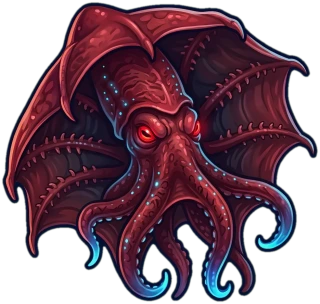
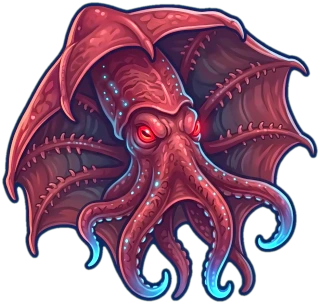
glowmaw: bespoke per-symbol win motion + masked shine sweep, brighter H2, larger H4

diff --git a/apps/glowmaw/src/scene/SymbolView.ts b/apps/glowmaw/src/scene/SymbolView.ts
@@ -19,6 +19,10 @@ export class SymbolView {
 	private art = new PIXI.Sprite();
 	private flash = new PIXI.Sprite();
 	private value?: PIXI.Text;
+	private shine = new PIXI.Sprite(fx.shine());
+	private shineMask = new PIXI.Sprite();
+	/** ms since the win highlight started, -1 when not winning (drives the per-symbol win motion) */
+	private winT = -1;
 	raw: RawSymbol = { name: 'L5' };
 	private phase = Math.random() * Math.PI * 2;
 	private dimmed = 0; // 0..1 animated
@@ -38,7 +42,15 @@ export class SymbolView {
 		this.flash.anchor.set(0.5);
 		this.flash.blendMode = 'add';
 		this.flash.alpha = 0;
-		this.body.addChild(this.glow, this.art, this.flash);
+		this.shine.anchor.set(0.5);
+		this.shine.blendMode = 'add';
+		this.shine.rotation = 0.42;
+		this.shine.width = C * 0.32;
+		this.shine.height = C * 1.7;
+		this.shine.visible = false;
+		this.shineMask.anchor.set(0.5);
+		this.shine.mask = this.shineMask;
+		this.body.addChild(this.glow, this.art, this.flash, this.shineMask, this.shine);
 		this.root.addChild(this.body);
 		this.set(raw);
 	}
@@ -51,6 +63,7 @@ export class SymbolView {
 		this.raw = raw;
 		this.taken = false;
 		this.highlight = 0;
+		this.winT = -1;
 		this.pop = 1;
 		this.root.alpha = 1;
 		const style = SYMBOL_STYLE[raw.name] ?? SYMBOL_STYLE.L5;
@@ -64,11 +77,13 @@ export class SymbolView {
 		const t = tex(key, raw.name === 'M' ? 'M' : raw.name);
 		this.art.texture = t;
 		this.flash.texture = t;
+		this.shineMask.texture = t;
 		const size = C * style.scale;
 		const s = size / Math.max(t.width, t.height);
 		this.baseScale = s;
 		this.art.scale.set(s);
 		this.flash.scale.set(s);
+		this.shineMask.scale.set(s);
 		this.glow.tint = tint;
 		this.glow.scale.set((C * 1.25) / 256);
 		this.glow.alpha = raw.name === 'S' || raw.name === 'M' ? 0.55 : 0.18;
@@ -104,10 +119,29 @@ export class SymbolView {
 		} else {
 			this.glow.alpha = 0.14 + this.highlight * 0.75;
 		}
+		let wx = 0, wy = 0, wsx = 1, wsy = 1;
+		if (this.winT >= 0) {
+			this.winT += dt * anim.speed;
+			const m = winMotion(this.raw.name, this.winT);
+			const a = Math.min(1, this.winT / 220) * (anim.reducedMotion ? 0.35 : 1);
+			wx = m.x * a;
+			wy = m.y * a;
+			rot += m.rot * a;
+			wsx = 1 + (m.sx - 1) * a;
+			wsy = 1 + (m.sy - 1) * a;
+			// light band sweeping across the art, every 1.1 s
+			const k = (this.winT % 1100) / 480;
+			this.shine.visible = k < 1;
+			if (k < 1) {
+				this.shine.x = (-0.75 + 1.5 * k) * C;
+				this.shine.alpha = 0.85 * Math.sin(k * Math.PI);
+			}
+		} else this.shine.visible = false;
 		const sc = idleS * this.pop;
 		const st = 1 + this.stretch;
-		this.body.scale.set(sc * this.squashX / Math.sqrt(st), sc * this.squashY * st);
+		this.body.scale.set((sc * this.squashX * wsx) / Math.sqrt(st), sc * this.squashY * st * wsy);
 		this.body.rotation = rot;
+		this.body.position.set(wx, wy);
 		this.glow.scale.set(((C * 1.25) / 256) * (1 + this.highlight * 0.35));
 		this.flash.alpha = this.highlight * (0.35 + Math.sin(this.phase * 9) * 0.15);
 		const k = 1 - this.dimmed * 0.62;
@@ -132,6 +166,7 @@ export class SymbolView {
 	/** Win highlight: pop + glow, holds until clearHighlight. */
 	async win() {
 		this.setDim(false);
+		if (this.winT < 0) this.winT = 0;
 		await anim.tween({ duration: 380, ease: ease.outBack }, (t) => {
 			this.highlight = t;
 			this.pop = 1 + 0.16 * Math.sin(t * Math.PI) + 0.06 * t;
@@ -158,6 +193,7 @@ export class SymbolView {
 
 	clearHighlight() {
 		this.highlight = 0;
+		this.winT = -1;
 		this.pop = 1;
 	}
 
@@ -191,5 +227,91 @@ export class SymbolView {
 		this.root.destroy({ children: true });
 	}
 }
+
+const TAU = Math.PI * 2;
+/** pulse 0..1..0 occupying the first `width` fraction of each period */
+const beat = (t: number, period: number, width = 0.35) => {
+	const k = (t % period) / period;
+	return k < width ? Math.sin((k / width) * Math.PI) : 0;
+};
+
+/**
+ * Bespoke win motion per symbol, in cell units (C = 100): each creature moves the way
+ * it would in the water. Returned values are offsets/multipliers applied on top of
+ * the pop/squash/idle transforms.
+ */
+export const winMotion = (name: string, t: number) => {
+	const p = (t / 1000) * TAU;
+	const m = { x: 0, y: 0, rot: 0, sx: 1, sy: 1 };
+	switch (name) {
+		case 'H1': {
+			// nautilus: slow roll of the shell + chamber glow throb
+			m.rot = Math.sin(p * 0.8) * 0.24;
+			m.sx = m.sy = 1 + Math.sin(p * 1.6) * 0.05;
+			m.y = Math.sin(p * 0.8 + 1.2) * -4;
+			break;
+		}
+		case 'H2': {
+			// vampire squid: cloak flares (wide + flat) then jets upward
+			const b = beat(t, 900, 0.4);
+			m.sx = 1 + 0.16 * b;
+			m.sy = 1 - 0.12 * b;
+			const k = (t % 900) / 900;
+			m.y = -10 * Math.sin(Math.min(1, k / 0.75) * Math.PI) ;
+			break;
+		}
+		case 'H3': {
+			// jellyfish: bell contraction pushes it up, then it drifts back down
+			const b = beat(t, 1000, 0.3);
+			m.sy = 1 - 0.14 * b;
+			m.sx = 1 + 0.1 * b;
+			const k = (t % 1000) / 1000;
+			m.y = -12 * Math.sin(Math.pow(k, 0.6) * Math.PI);
+			break;
+		}
+		case 'H4': {
+			// leafy sea dragon: swimming sway
+			m.rot = Math.sin(p * 1.1) * 0.15;
+			m.x = Math.sin(p * 0.55) * 6;
+			m.y = Math.sin(p * 1.1 + 1) * 4;
+			m.sx = 1 + Math.sin(p * 2.2) * 0.03;
+			break;
+		}
+		case 'L1': {
+			// urchin: spiky shiver
+			m.rot = Math.sin(p * 1.4) * 0.3 + Math.sin(p * 9) * 0.04;
+			m.sx = m.sy = 1 + Math.abs(Math.sin(p * 2.8)) * 0.07;
+			break;
+		}
+		case 'L2': {
+			// brittle star: arms twirl
+			m.rot = Math.sin(p * 0.7) * 0.55;
+			m.sx = m.sy = 1 + Math.sin(p * 1.4) * 0.04;
+			break;
+		}
+		case 'L3': {
+			// scallop: double clap
+			const b = beat(t, 900, 0.18) + beat(t + 200, 900, 0.18) * 0.7;
+			m.sy = 1 - 0.18 * b;
+			m.sx = 1 + 0.05 * b;
+			m.y = -6 * b;
+			break;
+		}
+		case 'L4': {
+			// vent crystal: heat shimmer
+			m.sx = 1 + Math.sin(p * 3.2) * 0.035;
+			m.sy = 1 + Math.sin(p * 3.2 + 1.6) * 0.05;
+			m.rot = Math.sin(p * 6) * 0.03;
+			break;
+		}
+		case 'L5': {
+			// sea glass: turns to catch the light (fake 3D)
+			m.sx = 0.82 + 0.18 * Math.abs(Math.cos(p * 0.7));
+			m.rot = Math.sin(p * 0.7) * 0.18;
+			break;
+		}
+	}
+	return m;
+};
 
 export { COLORS };

diff --git a/apps/glowmaw/src/scene/textures.ts b/apps/glowmaw/src/scene/textures.ts
@@ -71,6 +71,18 @@ export const fx = {
 			c.ellipse(16, 64, 7, 64, 0, 0, Math.PI * 2);
 			c.fill();
 		}),
+	/** Soft vertical light band, rotated and swept across symbol art (masked) on wins. */
+	shine: () =>
+		canvasTex('fx_shine', 64, 256, (c) => {
+			const g = c.createLinearGradient(0, 0, 64, 0);
+			g.addColorStop(0, 'rgba(255,255,255,0)');
+			g.addColorStop(0.42, 'rgba(255,255,255,0.55)');
+			g.addColorStop(0.5, 'rgba(255,255,255,1)');
+			g.addColorStop(0.58, 'rgba(255,255,255,0.55)');
+			g.addColorStop(1, 'rgba(255,255,255,0)');
+			c.fillStyle = g;
+			c.fillRect(0, 0, 64, 256);
+		}),
 	ring: () =>
 		canvasTex('fx_ring', 256, 256, (c) => {
 			const g = c.createRadialGradient(128, 128, 80, 128, 128, 128);

diff --git a/apps/glowmaw/src/scene/theme.ts b/apps/glowmaw/src/scene/theme.ts
@@ -22,7 +22,7 @@ export const SYMBOL_STYLE: Record<string, { tint: number; scale: number }> = {
 	H1: { tint: 0xffb84a, scale: 1.0 },
 	H2: { tint: 0xff3b5c, scale: 1.0 },
 	H3: { tint: 0xb07bff, scale: 1.0 },
-	H4: { tint: 0x2fe0b0, scale: 1.0 },
+	H4: { tint: 0x2fe0b0, scale: 1.07 },
 	L1: { tint: 0xff4d8d, scale: 0.92 },
 	L2: { tint: 0x5dff8a, scale: 0.92 },
 	L3: { tint: 0x4db2ff, scale: 0.92 },
